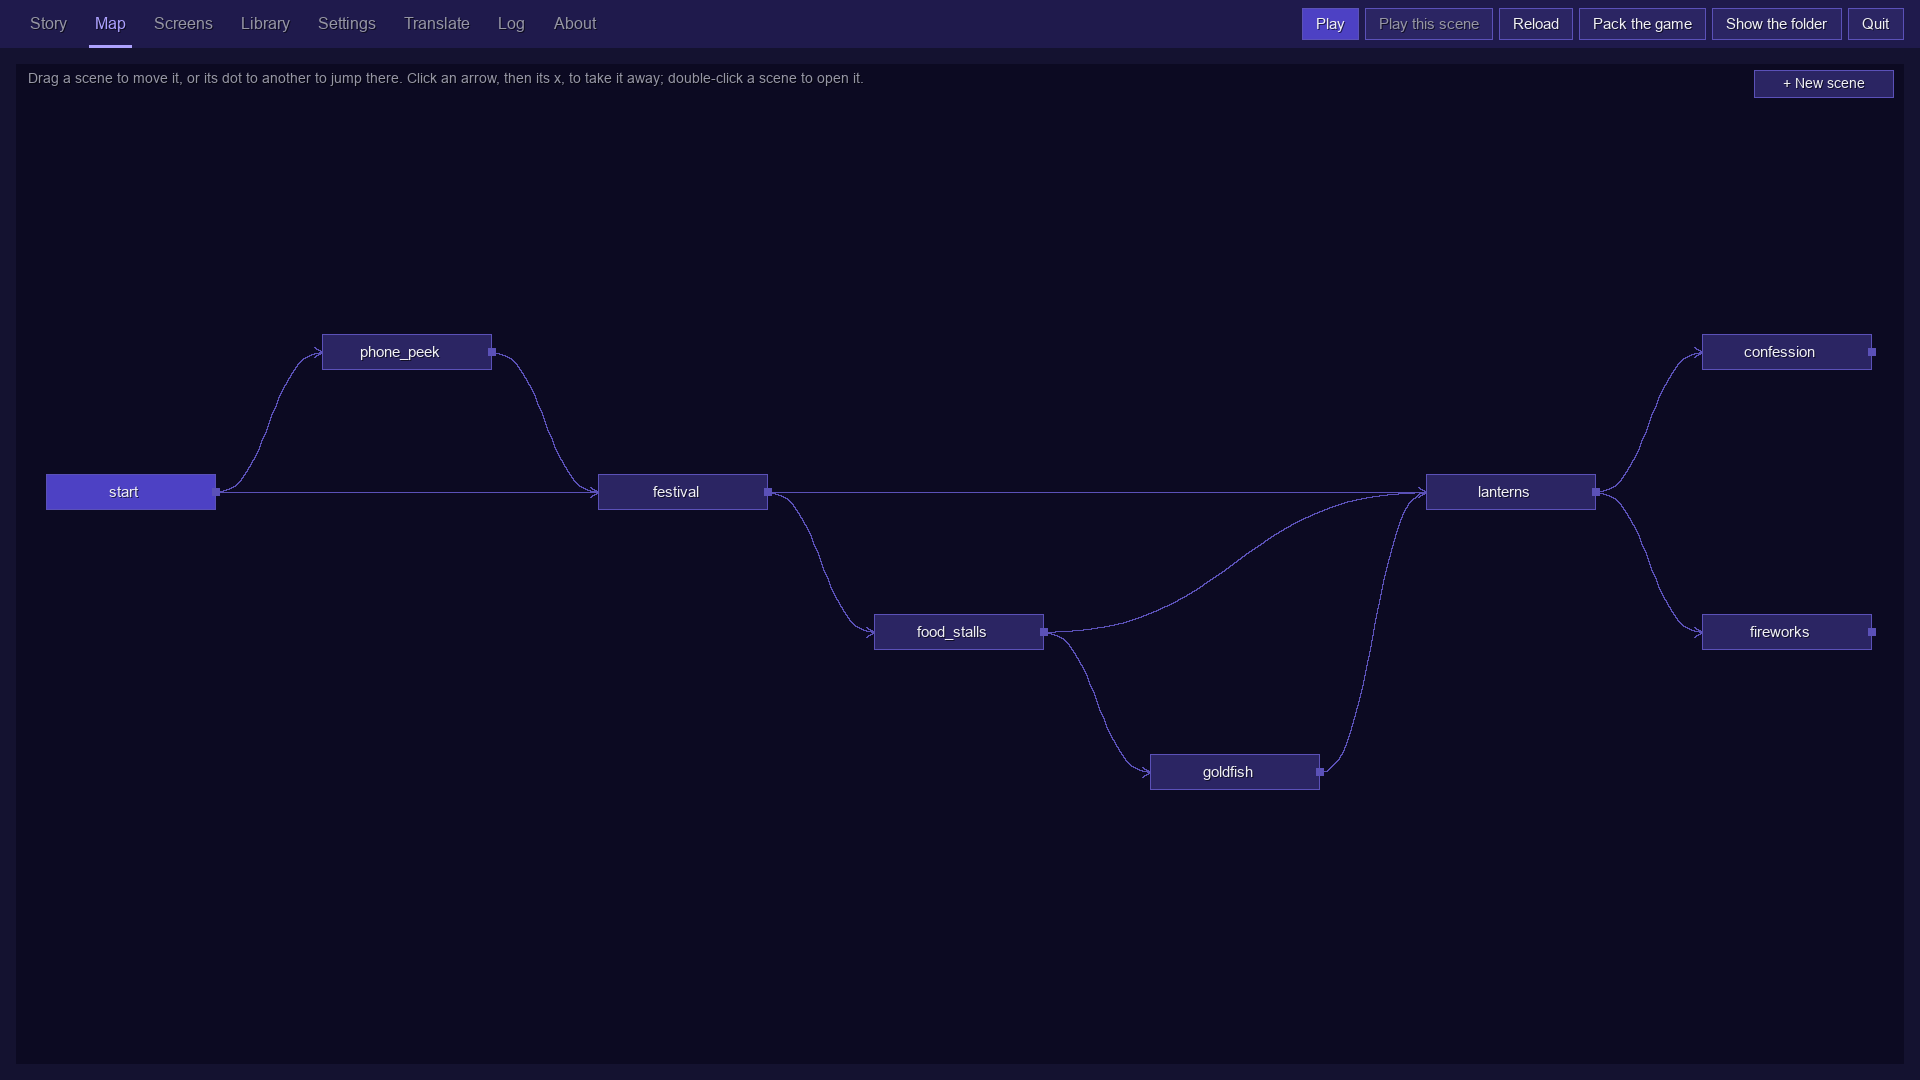
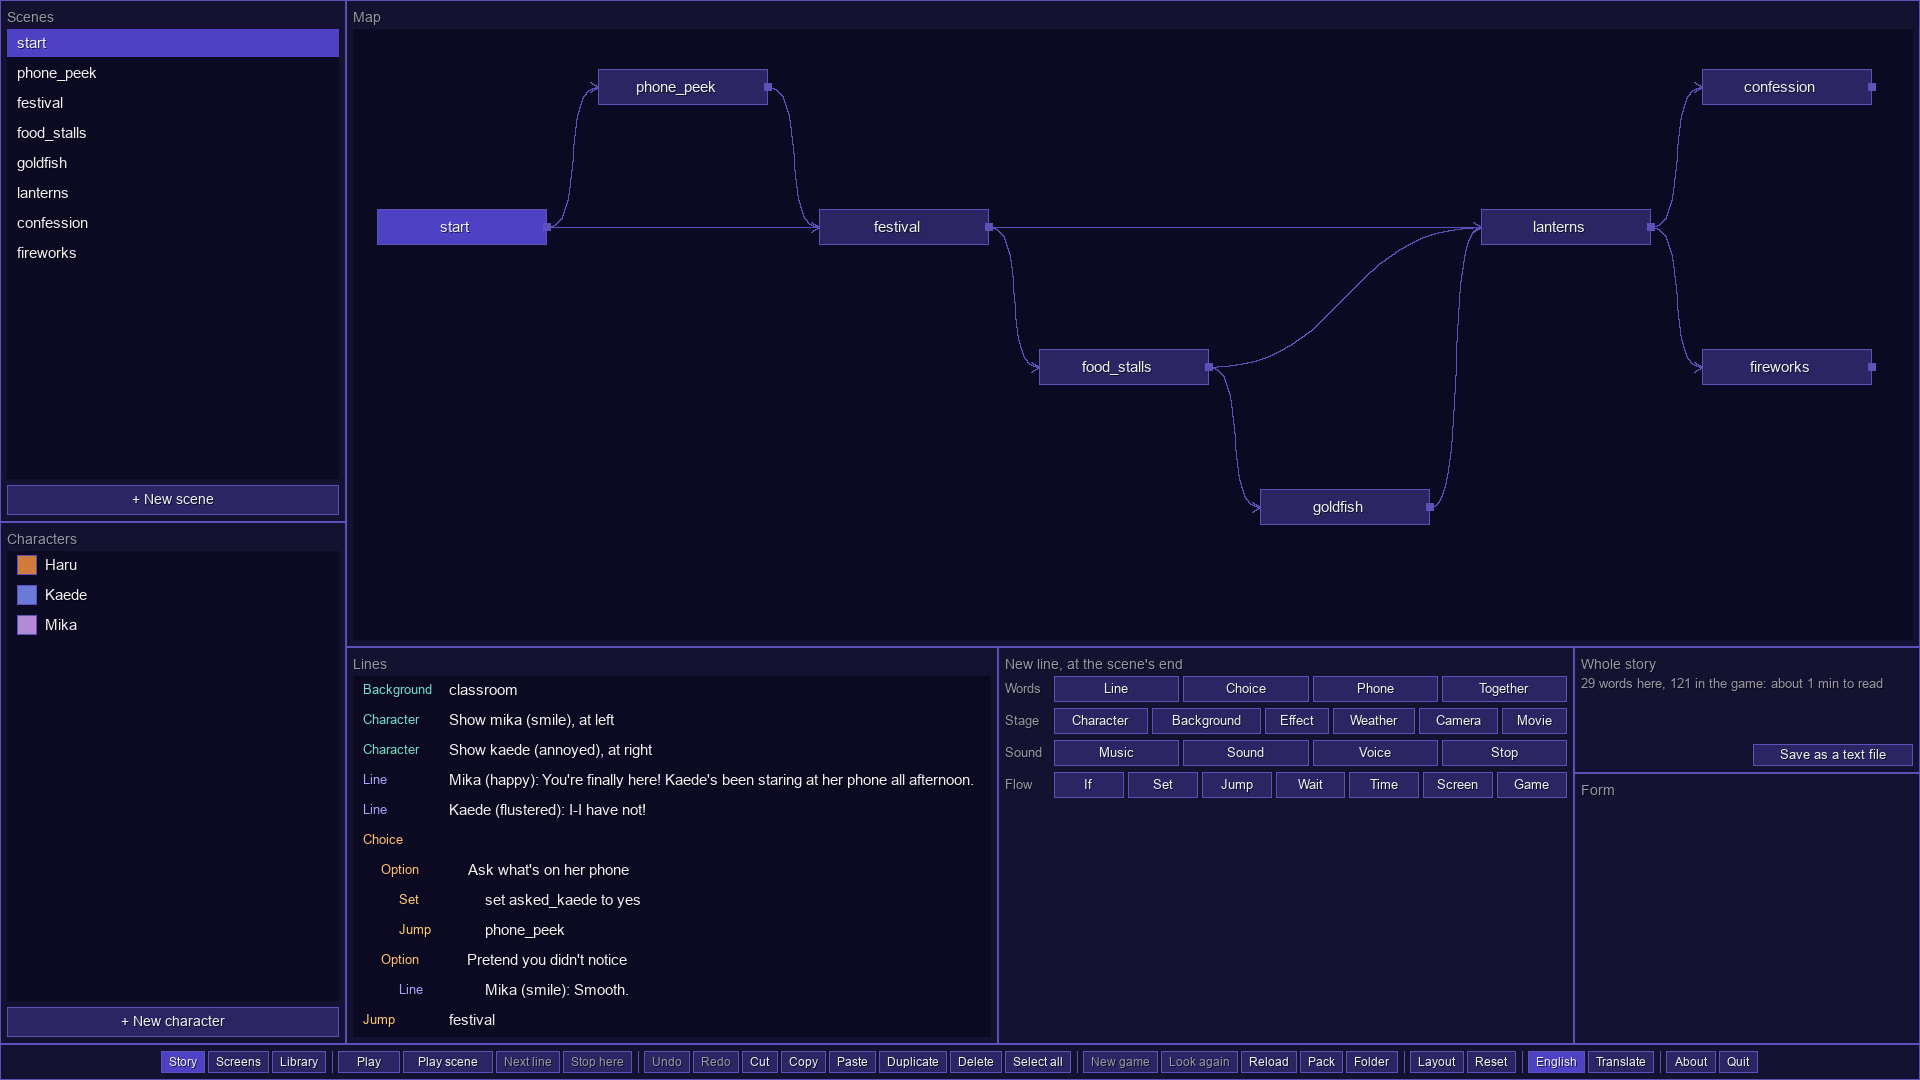
The README for 0.8.0: the editor's three tabs and its buttons at the foot, quick save and load, the textbox's buttons, Play from line and Pack; the pictures and clips taken again [skip ci]

diff --git a/README.md b/README.md
@@ -4,16 +4,16 @@
 
 **[Download VNext](https://github.com/zsande/VNext/releases/latest)**: one app, nothing else to install. It's free, also for games you sell.
 
-<p align="center"><img src=".github/make-a-scene.gif" width="100%" alt="The VNext editor: a new line is added with a click, its words are typed in, Mika is picked as the speaker and “surprised” from pictures of her expressions, and Play from this line shows her saying it in the park"></p>
+<p align="center"><img src=".github/make-a-scene.gif" width="100%" alt="The VNext editor: a new line is added with a click, its words are typed in, Mika is picked as the speaker and “surprised” from pictures of her expressions, and Play from line shows her saying it in the park"></p>
 
 ## Why it's easy
 
 Most visual novel engines start with a scripting language to learn or a game engine to install. VNext starts with a window you click in.
 
 - **No code, ever.** A scene is a list of lines you add with a click: pick who speaks and their expression from pictures, then type what they say. Menus are pictures of the game you drag things around on. Everything is also saved as plain, readable script files, if you'd rather type.
-- **One app, nothing to set up.** The editor and the game are the same program: no game engine, plugins, Python or command line. Click any line and Play from this line shows it in the game; F10 takes you back to the editor.
-- **Menus come ready-made.** One click makes a title screen, a pause menu, saving and loading, settings, a history, a confirm question and a phone, already working and all yours to restyle.
-- **A finished game is two files.** Pack the game puts every picture, sound and line into one file, game.vnext (with licences.txt beside it). Put VNext next to it and that's your game; its players' saves go inside it too.
+- **One app, nothing to set up.** The editor and the game are the same program: no game engine, plugins, Python or command line. Click any line and Play from line shows it in the game; F10 takes you back to the editor.
+- **Menus come ready-made.** A title screen, a pause menu, saving and loading, settings, a history, a confirm question, a phone and more are a click each, already working and all yours to restyle.
+- **A finished game is two files.** Pack puts every picture, sound and line into one file, game.vnext (with licences.txt beside it). Put VNext next to it and that's your game; its players' saves go inside it too.
 - **Everywhere.** Make your game on Windows, macOS or Linux, and the same game.vnext plays on all three, with a mouse, a keyboard, a controller or a touch screen.
 - **Free.** Also for games you sell: no royalties, no account and no splash screen of ours (zlib licence).
 
@@ -33,24 +33,23 @@ Your characters text the player. Their messages type out as they write them, and
 - **Sound**: music that fades in, out and from one song to the next and quietens while someone speaks, sounds and loops, and a voice file for every line, with the words keeping time with the voice.
 - **Screens**: a title screen, pause menu, saving and loading, settings, a history, a choice menu, questions, the phone, credits, a calendar and a box to type a name into, all ready-made and yours to restyle. Or build your own from parts (buttons, sliders, bars, text boxes, lists, scrolling boxes with scrollbars and fading edges), with styles, drag and drop, and animations made on a timeline.
 - **Extras**: a gallery, a music room, endings, achievements, tips, and a flowchart that takes players back to any choice.
-- **For players**: saves with pictures, autosave and quick save, rewind, skip and auto-play (buttons on the textbox, and keys), a history that replays voices and goes back, and settings for text speed, text size, volumes, high contrast, text read aloud, language and every key and button. Every menu works with a mouse, a keyboard or a controller, with an on-screen keyboard for typing a name.
+- **For players**: saves with pictures, autosave, quick save and quick load, rewind, skip and auto-play (Menu, Skip, Auto, Q.Save, Q.Load and Phone buttons on the textbox, and keys), a history that replays voices and goes back, and settings for text speed, text size, volumes, high contrast, text read aloud, language and every key and button. Every menu works with a mouse, a keyboard or a controller, with an on-screen keyboard for typing a name.
 - **Every language**: translations, with a spreadsheet for translators, right-to-left scripts, Japanese and Chinese line breaking, and the developer tools themselves can be translated too.
 
 <p align="center">
-  <img src=".github/game.png" width="48%" alt="A VNext game: Haru smiling in a park with falling petals, asking “So. Lanterns first, or food?”, with Skip, Auto and Phone buttons on the textbox">
+  <img src=".github/game.png" width="48%" alt="A VNext game: Haru smiling in a park with falling petals, asking “So. Lanterns first, or food?”, with Phone, Skip, Auto, Q.Save and Q.Load buttons on the textbox">
   <img src=".github/call.png" width="48%" alt="A VNext game: Mika calling the player, her incoming call on the phone with Decline and Answer, while Haru waits in the park">
 </p>
 
 ## The editor
 
-Open VNext in developer mode and you get an editor that fits any window size, with a tab for each part of the work:
+Open VNext in developer mode and you get an editor that fits any window size, in three tabs:
 
-- **Story**: scenes and their lines as forms, every kind of line a button away, and "Play from this line" to see the game from any of them.
-- **Map**: every scene as a box; drag one's dot to another and the story jumps there.
+- **Story**: scenes and their lines as forms, every kind of line a button away, and the map, where every scene is a box: drag one's dot to another and the story jumps there.
 - **Screens**: the title screen, menus and textbox, designed by dragging their parts around on a picture of the game.
-- **Library**: images, sounds, voices, movies and fonts (drop files on the window to add them), and the colours, styles, animations, variables, endings, achievements, tips and controls a game uses, with the variables' values shown as you play.
-- **Settings** and **Translate**: the game's options, and its translations.
-- **Log**: what happened, where a click takes you to a line with a mistake. Mistakes are said in plain words, and every change can be undone.
+- **Library**: images, sounds, voices, movies and fonts (drop files on the window to add them), the colours, styles, animations, variables, endings, achievements, tips and controls a game uses (with the variables' values shown as you play), the game's settings, and its translations, with a spreadsheet for translators.
+
+Every part of a tab is a window of its own to move and resize, and the editor's buttons run along its foot: Play, or Play from line to see the game from any line, Undo and Redo, Pack and the rest, with the same keys you know. Mistakes are marked in red and said in plain words, and every change can be undone.
 
 <p align="center"><img src=".github/design-a-screen.gif" width="100%" alt="The Screens tab: the title screen's New game button is dragged to a new place on the preview and renamed Start the story in its form, and Play shows the title screen with it there"></p>
 
@@ -58,7 +57,7 @@ Open VNext in developer mode and you get an editor that fits any window size, wi
   <img src=".github/editor-story.png" width="48%" alt="The Story tab: a scene's lines, and the form of the chosen one: Haru saying “Yo. You made it.”">
   <img src=".github/editor-chat.png" width="48%" alt="The Story tab on a chat: its phone lines, and the form of Haru's reaction">
   <img src=".github/editor-screens.png" width="48%" alt="The Screens tab: the phone's parts, the phone with an app button chosen, and the button's settings">
-  <img src=".github/editor-map.png" width="48%" alt="The Map tab: eight scenes as boxes, with arrows from start to two endings">
+  <img src=".github/editor-map.png" width="48%" alt="The Story tab with its map made big: eight scenes as boxes, with arrows from start to two endings">
 </p>
 
 ## How it's made
